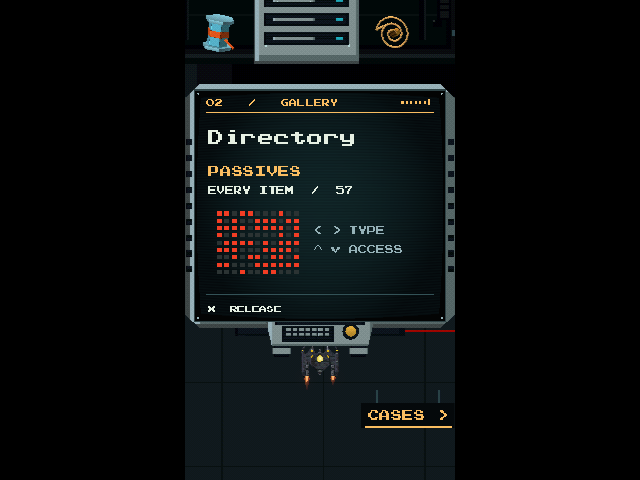
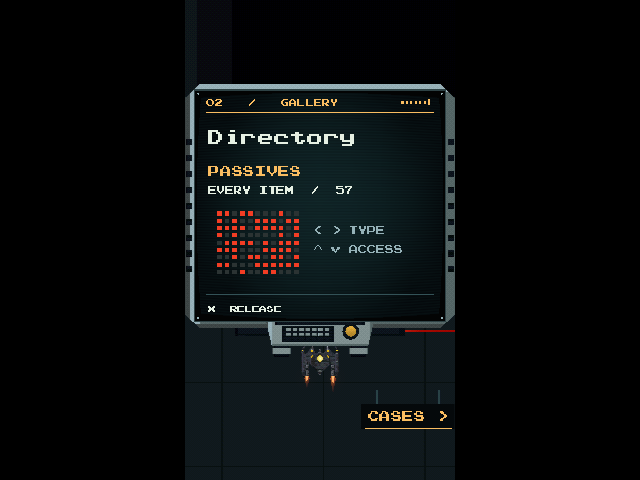
Show only the occupied side room and keep hangar entrances visible

Changed region(s): [[0.2812, 0.0, 0.7188, 0.1562], [0.5625, 0.8438, 0.7188, 0.9062], [0.5, 0.7812, 0.5312, 0.8125]]

diff --git a/Assets/Scripts/Run/HangarConcourse.cs b/Assets/Scripts/Run/HangarConcourse.cs
@@ -29,6 +29,20 @@ public sealed partial class HangarHub
     readonly List<GameObject>[] pages = new List<GameObject>[5];
     readonly int[] savedSelection = new int[5], savedBand = new int[5];
     readonly List<RectTransform> berthNames = new List<RectTransform>();
+    sealed class Interior
+    {
+        public GameObject fixtures;
+        public CanvasGroup lettering;
+
+        public void Show(bool visible)
+        {
+            fixtures.SetActive(visible);
+            lettering.alpha = visible ? 1 : 0;
+        }
+    }
+    readonly Interior[] interiors = new Interior[berths.Length];
+    Interior installing;
+    Transform FixtureParent => installing != null ? installing.fixtures.transform : transform;
     float repeatAt, cameraAcross, baseViewSize;
     int room = -1, selection, band;
     bool operating;
@@ -96,13 +110,20 @@ public sealed partial class HangarHub
             baseViewSize = view.orthographicSize;
         float zoom = operating || room >= 0 && room != (int)Dock.Armory ? 7.05f : baseViewSize;
         view.orthographicSize = Mathf.Lerp(view.orthographicSize, zoom, 1 - Mathf.Exp(-6 * Time.deltaTime));
-        int portal = Portal(p);
+        float lateral = Mathf.Abs(p.x - center.x);
+        int portal = lateral > Camera.RightLimit ? Portal(p) : -1;
+        if (portal != room)
+        {
+            if (portal >= 0)
+                OpenDock(portal);
+            else
+                CloseDock();
+        }
         float across = 0;
         float along = Mathf.Clamp(p.y - center.y, 0, DeckExtension);
-        if (portal >= 0 && Mathf.Abs(p.x - center.x) > 4 &&
-            (Mathf.Abs(p.x - center.x) > Camera.RightLimit + .01f || Mathf.Abs(p.y - center.y - berths[portal].y) < 1))
+        if (portal >= 0)
         {
-            float enter = Mathf.SmoothStep(0, 1, Mathf.InverseLerp(4, 7.5f, Mathf.Abs(p.x - center.x)));
+            float enter = Mathf.SmoothStep(0, 1, Mathf.InverseLerp(Camera.RightLimit, 7.5f, lateral));
             Vector2 target = berths[portal];
             if (portal == (int)Dock.Armory)
                 target = operating ? new Vector2(FilterDesk.x, FilterDesk.y + 2.7f) : new Vector2(Mathf.Clamp(p.x - center.x, 10, GalleryRight - 2), Mathf.Clamp(p.y - center.y, FilterDesk.y + 1.7f, GalleryTop - 3));
@@ -113,12 +134,11 @@ public sealed partial class HangarHub
         }
         SetCameraTravel(Mathf.Lerp(cameraTravel, along, 1 - Mathf.Exp(-7 * Time.deltaTime)));
         float next = Mathf.Lerp(cameraAcross, across, 1 - Mathf.Exp(-7 * Time.deltaTime));
+        // Bring the portrait aperture back over the lane before the outgoing interior is hidden.
+        float passagePan = Mathf.Max(0, lateral - Camera.RightLimit) * 5;
+        next = Mathf.Clamp(next, -passagePan, passagePan);
         MoveCamera(Vector3.right * (next - cameraAcross));
         cameraAcross = next;
-        if (Mathf.Abs(p.x - center.x) >= 6.5f && portal != room)
-            OpenDock(portal);
-        else if (room >= 0 && Mathf.Abs(p.x - center.x) < 6.4f)
-            CloseDock();
     }
 
     void MoveCamera(Vector3 delta)
@@ -142,7 +162,7 @@ public sealed partial class HangarHub
     Transform Strip(string title, Vector2 pos, Vector2 size, Color tint, int order = -7, float angle = 0)
     {
         var t = Quad(title, tint, order);
-        t.SetParent(transform, false);
+        t.SetParent(FixtureParent, false);
         t.position = Spot(pos, 4 - (order + 10) * .035f);
         t.localScale = new Vector3(size.x * 4, size.y * 4, 1);
         t.localRotation = Quaternion.Euler(0, 0, angle);
@@ -161,7 +181,7 @@ public sealed partial class HangarHub
         var go = new GameObject(title, typeof(RectTransform), typeof(Image));
         var rect = go.GetComponent<RectTransform>();
         rect.sizeDelta = size * 100;
-        readouts.MountAt(rect, Spot(position, 1), .01f, floatSign);
+        readouts.MountAt(rect, Spot(position, 1), .01f, floatSign, installing?.lettering.transform);
         go.GetComponent<Image>().color = new Color(.018f, .034f, .043f);
         return rect;
     }
@@ -195,21 +215,31 @@ public sealed partial class HangarHub
         }
         for (int i = 0; i < berths.Length; i++)
         {
-            BuildRoom(i);
-            if (i != (int)Dock.Armory)
+            installing = interiors[i] = new Interior
             {
+                fixtures = new GameObject(signs[i] + " interior"),
+                lettering = readouts.CreateRoomLayer(signs[i] + " displays")
+            };
+            installing.fixtures.transform.SetParent(transform, false);
+            if (i == (int)Dock.Armory)
+                BuildGallery();
+            else
+            {
+                BuildRoom(i);
                 room = i;
                 selection = i == (int)Dock.Fleet ? (int)MetaProgress.Ship : i == (int)Dock.Flight ? System.Array.IndexOf(modes, difficulty) : 0;
                 band = i == (int)Dock.Fleet ? System.Array.IndexOf(modes, difficulty) : 0;
                 var screen = new GameObject(signs[i] + " mounted screen", typeof(RectTransform));
                 instrument = screens[i] = new DockInstrument(screen, dialog?.font, lamps[i]);
-                readouts.MountAt((RectTransform)screen.transform, Spot(berths[i] + Vector2.up * 2.8f, 1), .012f);
+                readouts.MountAt((RectTransform)screen.transform, Spot(berths[i] + Vector2.up * 2.8f, 1), .012f, layer: installing.lettering.transform);
                 pages[i] = new List<GameObject>();
                 RenderPage();
                 savedSelection[i] = selection;
                 savedBand[i] = band;
                 room = -1;
             }
+            installing.Show(false);
+            installing = null;
             yield return null;
             float side = Mathf.Sign(berths[i].x), y = berths[i].y;
             Strip("Cross-passage floor", new Vector2(side * 5.7f, y), new Vector2(2.8f, 2.5f), Deck, -14);
@@ -234,11 +264,9 @@ public sealed partial class HangarHub
     void BuildRoom(int index)
     {
         Vector2 b = berths[index];
-        if (index == (int)Dock.Armory)
-            return;
         // The workshop floor has its own walls, cable trenches and machinery apron.
         var floor = new GameObject(signs[index] + " deck").AddComponent<SpriteRenderer>();
-        floor.transform.SetParent(transform, false);
+        floor.transform.SetParent(FixtureParent, false);
         floor.transform.position = Spot(b, 80);
         floor.sprite = Resources.Load<Sprite>(index == (int)Dock.Fleet ? "DockArt/RoomDeckFleet" : "DockArt/RoomDeck");
         floor.drawMode = SpriteDrawMode.Simple;
@@ -263,7 +291,7 @@ public sealed partial class HangarHub
             Vector2 spot = b + new Vector2(i % 2 == 0 ? -2.15f : 2.15f, -2.3f - i / 2 * 2.65f);
             Hover("HangarDockPad", Spot(spot, 3), -4);
             var hull = ShipFrames.BuildDisplay(player, ShipFrames.Get((ShipFrame)i));
-            hull.transform.SetParent(transform, true);
+            hull.transform.SetParent(FixtureParent, true);
             hull.transform.position = Spot(spot, 1);
             hull.transform.localScale *= .95f;
             foreach (var renderer in hull.GetComponentsInChildren<MeshRenderer>())
@@ -284,7 +312,7 @@ public sealed partial class HangarHub
     void DisplayEquipment(string key, Vector2 position)
     {
         var go = new GameObject(key + " rack display");
-        go.transform.SetParent(transform, false);
+        go.transform.SetParent(FixtureParent, false);
         go.transform.position = Spot(position, 1);
         go.AddComponent<MeshFilter>().sharedMesh = IndustrialMeshFactory.ExpansionItem(key);
         var renderer = go.AddComponent<MeshRenderer>();
@@ -301,7 +329,7 @@ public sealed partial class HangarHub
         int kind = index == (int)Dock.Simulator ? 0 : index == (int)Dock.Recorder ? 1 : 2;
         var mesh = IndustrialMeshFactory.DockMachine(kind);
         var go = new GameObject(signs[index] + " machinery");
-        go.transform.SetParent(transform, false);
+        go.transform.SetParent(FixtureParent, false);
         go.transform.position = Spot(b + Vector2.down * 4.6f, 2);
         go.AddComponent<MeshFilter>().sharedMesh = mesh;
         var renderer = go.AddComponent<MeshRenderer>();
@@ -425,6 +453,7 @@ public sealed partial class HangarHub
         if (room >= 0)
             CloseDock();
         room = index;
+        interiors[index].Show(true);
         operating = false;
         selection = index == (int)Dock.Armory ? galleryAvailability : savedSelection[index];
         band = index == (int)Dock.Armory ? galleryCategory : savedBand[index];
@@ -448,6 +477,7 @@ public sealed partial class HangarHub
             operating = false;
             RenderPage();
         }
+        interiors[room].Show(false);
         room = -1;
         HoldingShip = false;
         instrument = null;

diff --git a/Assets/Editor/Checks/VerifyHangarDeck.cs b/Assets/Editor/Checks/VerifyHangarDeck.cs
@@ -373,6 +373,19 @@ public sealed class HangarDeckReview : MonoBehaviour
         while (!Field<bool>("galleryReady"))
             yield return null;
         Check(Field<int>("loadedItems") == ItemCatalog.All.Count, "every catalog entry installed");
+        string[] roomSigns = { "FLEET", "ARMORY", "SIMULATOR", "RECORDER", "FLIGHT CONTROL" };
+        void CheckInteriors(int entered)
+        {
+            bool correct = true;
+            for (int i = 0; i < roomSigns.Length; i++)
+            {
+                bool visible = i == entered;
+                var world = hub.transform.Find(roomSigns[i] + " interior");
+                var displays = GameObject.Find(roomSigns[i] + " displays").GetComponent<CanvasGroup>();
+                correct &= world.gameObject.activeInHierarchy == visible && displays.alpha == (visible ? 1 : 0);
+            }
+            Check(correct, entered < 0 ? "main lane hides every side room" : "only the entered interior and its glass are visible");
+        }
         bool directoryOnly = SessionState.GetBool("DirectoryOnly", false);
         SessionState.SetBool("DirectoryOnly", false);
         if (!directoryOnly)
@@ -382,19 +395,23 @@ public sealed class HangarDeckReview : MonoBehaviour
             Place(0, 6);
             yield return new WaitForSeconds(.8f);
             yield return Capture("LitPassage");
+            CheckInteriors(-1);
             Place(-11, 3.8f);
             yield return new WaitForSeconds(.8f);
             yield return Capture("FleetTube");
+            CheckInteriors(0);
             var screen = GameObject.Find("FLEET mounted screen");
             Check(screen != null && !Field<System.Collections.Generic.List<Transform>>("parkedShips")[(int)MetaProgress.Ship].gameObject.activeSelf, "flown hull has no duplicate on the pad");
             Place(0, 6);
             yield return new WaitForSeconds(.4f);
             Check(screen.activeInHierarchy, "the fleet screen remains mounted after exit");
+            CheckInteriors(-1);
             foreach (var berth in new[] { new Vector2(-11, 20), new Vector2(11, 20), new Vector2(11, 34) })
             {
                 Place(berth.x, berth.y - 2.1f);
                 yield return new WaitForSeconds(.7f);
                 Check(Field<int>("room") == (berth.x < 0 ? 2 : berth.y == 20 ? 3 : 4), "reached the marked control room");
+                CheckInteriors(Field<int>("room"));
                 yield return Capture(berth.x < 0 ? "SimulatorRoom" : berth.y == 20 ? "RecorderRoom" : "FlightRoom");
             }
         }
@@ -410,6 +427,24 @@ public sealed class HangarDeckReview : MonoBehaviour
         Debug.Log("Gallery entry " + Frames(entryFrames));
         var exhibits = Field<GalleryShelf.Exhibit[]>("exhibits");
         var models = Field<MeshRenderer[]>("pieces");
+        CheckInteriors(1);
+        void CheckCaseLighting()
+        {
+            var offsets = Field<int[]>("caseVertices");
+            var colors = Field<Mesh>("platforms").colors;
+            var category = Field<int>("galleryCategory");
+            var access = Field<int>("galleryAvailability");
+            bool correct = true;
+            for (int i = 0; i < exhibits.Length; i++)
+            {
+                bool released = !ItemCatalog.Get(exhibits[i].key).InRewardPool || MetaProgress.IsUnlocked(exhibits[i].key);
+                bool match = (category == 0 || category - 1 == (int)exhibits[i].category) && (access == 0 || released == (access == 1));
+                bool lampLit = colors[offsets[i + 1] - 1].r > .8f;
+                correct &= lampLit == match && models[i].HasPropertyBlock() == (released && !match);
+            }
+            Check(correct, "all 99 case lamps and exhibit finishes follow both filters");
+        }
+        CheckCaseLighting();
         int known = System.Array.FindIndex(exhibits, e => MetaProgress.IsUnlocked(e.key));
         int locked = System.Array.FindIndex(exhibits, e => ItemCatalog.Get(e.key).InRewardPool && !MetaProgress.IsUnlocked(e.key));
         void At(int i)
@@ -456,6 +491,10 @@ public sealed class HangarDeckReview : MonoBehaviour
         Press();
         yield return null;
         Check(Field<Mesh>("guideMesh").vertexCount > 0, "matching exhibits linked to bottom console");
+        CheckCaseLighting();
+        Call("Navigate", false, 1);
+        CheckCaseLighting();
+        Call("Navigate", false, -1);
         yield return Capture("FilterScreen");
         Press(Key.X);
         yield return null;
@@ -463,6 +502,17 @@ public sealed class HangarDeckReview : MonoBehaviour
         Place(25.1f, 18.96f);
         yield return new WaitForSeconds(.8f);
         yield return Capture("GalleryGuides");
+        Place(0, 6);
+        yield return null;
+        CheckInteriors(-1);
+        Place(11.4f, 4.3f);
+        yield return null;
+        CheckInteriors(1);
+        CheckCaseLighting();
+        while (Field<int>("galleryCategory") != 0)
+            Call("Navigate", true, -1);
+        Check(Field<Mesh>("guideMesh").vertexCount == 0, "clearing the filters removes the routes");
+        CheckCaseLighting();
         if (directoryOnly)
         {
             InputSystem.RemoveDevice(keyboard);

diff --git a/Assets/Scripts/Run/HangarGallery.cs b/Assets/Scripts/Run/HangarGallery.cs
@@ -135,7 +135,7 @@ public sealed partial class HangarHub
         mesh.SetTriangles(triangles, 0);
         quads.Add(mesh);
         var go = new GameObject(name);
-        go.transform.SetParent(transform, false);
+        go.transform.SetParent(FixtureParent, false);
         go.transform.position = Spot(Vector2.zero, order == -14 ? 65 : 60);
         go.AddComponent<MeshFilter>().sharedMesh = mesh;
         var r = go.AddComponent<MeshRenderer>();
@@ -164,7 +164,7 @@ public sealed partial class HangarHub
                 int i = first + j;
                 var e = exhibits[i] = shelf.exhibits[j];
                 var go = new GameObject("Museum exhibit " + i);
-                go.transform.SetParent(transform, false);
+                go.transform.SetParent(interiors[(int)Dock.Armory].fixtures.transform, false);
                 var bounds = e.mesh.bounds;
                 var rotation = Quaternion.Euler(-18, 28, -9);
                 float scale = 1.24f / Mathf.Max(.01f, bounds.size.x, bounds.size.y, bounds.size.z);
@@ -288,7 +288,7 @@ public sealed partial class HangarHub
     {
         var root = new GameObject("Gallery directory tube", typeof(RectTransform));
         var display = new DockInstrument(root, dialog?.font, DockInstrument.Brass);
-        readouts.MountAt((RectTransform)root.transform, Spot(FilterDesk + Vector2.up * 3.7f, 1), .012f);
+        readouts.MountAt((RectTransform)root.transform, Spot(FilterDesk + Vector2.up * 3.7f, 1), .012f, layer: installing.lettering.transform);
         display.Label("02   /   GALLERY", -41, 255, 476, 34, 19, DockInstrument.Brass, true);
         display.Label("Directory", 0, 167, 550, 74, 38, DockInstrument.Paper, true);
         categoryReadout = display.Label(categories[0], 0, 86, 550, 48, 27, DockInstrument.Brass, true);

diff --git a/Assets/Scripts/Run/HangarControls.cs b/Assets/Scripts/Run/HangarControls.cs
@@ -15,7 +15,7 @@ public sealed partial class HangarHub
     void BuildControlDesk(Vector2 at, int index)
     {
         var pedestal = new GameObject("Pilot control pedestal");
-        pedestal.transform.SetParent(transform, false);
+        pedestal.transform.SetParent(FixtureParent, false);
         pedestal.transform.position = Spot(at, 1);
         pedestal.AddComponent<MeshFilter>().sharedMesh = IndustrialMeshFactory.DockKeyboard();
         var r = pedestal.AddComponent<MeshRenderer>();
@@ -105,7 +105,7 @@ public sealed partial class HangarHub
     void MountReceiver(Vector2 at)
     {
         var go = new GameObject("Cast monitor housing");
-        go.transform.SetParent(transform, false);
+        go.transform.SetParent(FixtureParent, false);
         go.transform.position = Spot(at, 2);
         go.AddComponent<MeshFilter>().sharedMesh = IndustrialMeshFactory.DockMonitor();
         var r = go.AddComponent<MeshRenderer>();

diff --git a/Assets/Scripts/Run/DockReadouts.cs b/Assets/Scripts/Run/DockReadouts.cs
@@ -32,9 +32,15 @@ public sealed class DockReadouts : MonoBehaviour
         aperture.SetParent(transform, false);
         aperture.sizeDelta = new Vector2(405, 720);
     }
-    public void MountAt(RectTransform panel, Vector3 anchor, float worldScale, bool bob = false)
+    public CanvasGroup CreateRoomLayer(string name)
     {
-        panel.SetParent(aperture, false);
+        var layer = new GameObject(name, typeof(RectTransform), typeof(CanvasGroup)).GetComponent<CanvasGroup>();
+        layer.transform.SetParent(aperture, false);
+        return layer;
+    }
+    public void MountAt(RectTransform panel, Vector3 anchor, float worldScale, bool bob = false, Transform layer = null)
+    {
+        panel.SetParent(layer != null ? layer : aperture, false);
         mounts.Add(new Mount { panel = panel, point = anchor, scale = worldScale, bob = bob });
     }
     public void Aim(RectTransform panel, Vector3 point)

diff --git a/Assets/Scripts/Run/HangarHub.cs b/Assets/Scripts/Run/HangarHub.cs
@@ -179,7 +179,6 @@ public sealed partial class HangarHub : MonoBehaviour
         BuildShop();
         yield return null;
         yield return BuildConcourse();
-        BuildGallery();
         BuildPrompt();
         BuildGate();
         deckReady = true;
@@ -313,7 +312,7 @@ public sealed partial class HangarHub : MonoBehaviour
         if (mesh == null)
             return null;
         var go = new GameObject(model);
-        go.transform.SetParent(transform, false);
+        go.transform.SetParent(FixtureParent, false);
         go.transform.position = position;
         go.AddComponent<MeshFilter>().sharedMesh = mesh;
         var renderer = go.AddComponent<MeshRenderer>();

diff --git a/AGENTS.md b/AGENTS.md
@@ -175,7 +175,8 @@ These are the player's instructions. Preserve them across sessions and apply the
 - Fly continuously through the live title tunnel into the hangar. Feed outfitter pickups in from the left with their run-style labels and red footlights. The departure light draws the ship in automatically. Let the ship fly freely across the room displays, in front of the glass and beneath the black side guards.
 - The camera follows travel vertically and into side rooms. Holding Focus doubles hangar movement speed and retains precision movement during a run.
 - Shorten the main and side corridors. Mark rooms with illuminated floating signs, the departure gate's pale mist, and a keyboard or controller glyph over the console on approach. Keep slightly curved CRTs permanently mounted. Use restrained scan lines, the game's pixel lettering and a physical control pedestal.
-- The gallery holds every catalog item as a flyable exhibit. Locked pieces retain their black silhouette and show ??? for both title and description. Place the directory keyboard at the entrance and the exhibit rows to its north. The directory filters by item type and release status, with red light paths to each match. Bake the shelves before shipping and stream them across frames.
+- Show the main hangar and only the side room the pilot enters. Keep the other interiors and their screens mounted out of sight, and keep the doorway signs and lights visible from the lane.
+- The gallery holds every catalog item as a flyable exhibit. Locked pieces retain their black silhouette and show ??? for both title and description. Place the directory keyboard at the entrance and the exhibit rows to its north. The directory filters by item type and release status, with red light paths to each match. Dim nonmatching items and their platforms together, and restore full brightness when the filters are cleared. Bake the shelves before shipping and stream them across frames.
 - GR07 is the only starting hull. Campaign Hell clears commission Lancer, Ember and Warden in sequence, each with its predecessor. Simulator loans and victories are separate from campaign ship progression. Keep boss and no-hit marks per hull and difficulty.
 - A Hell campaign clear now ends the run after its boss reward. Show the victory receipt, coins collected and banked, run stats and new unlocks, then return to the hangar. A loss also files a receipt and reveals its unlocks.
 - Show victory and game over directly over the vertical flight area. Fit the title, tally and unlocks within its edges and keep the side margins clear.
